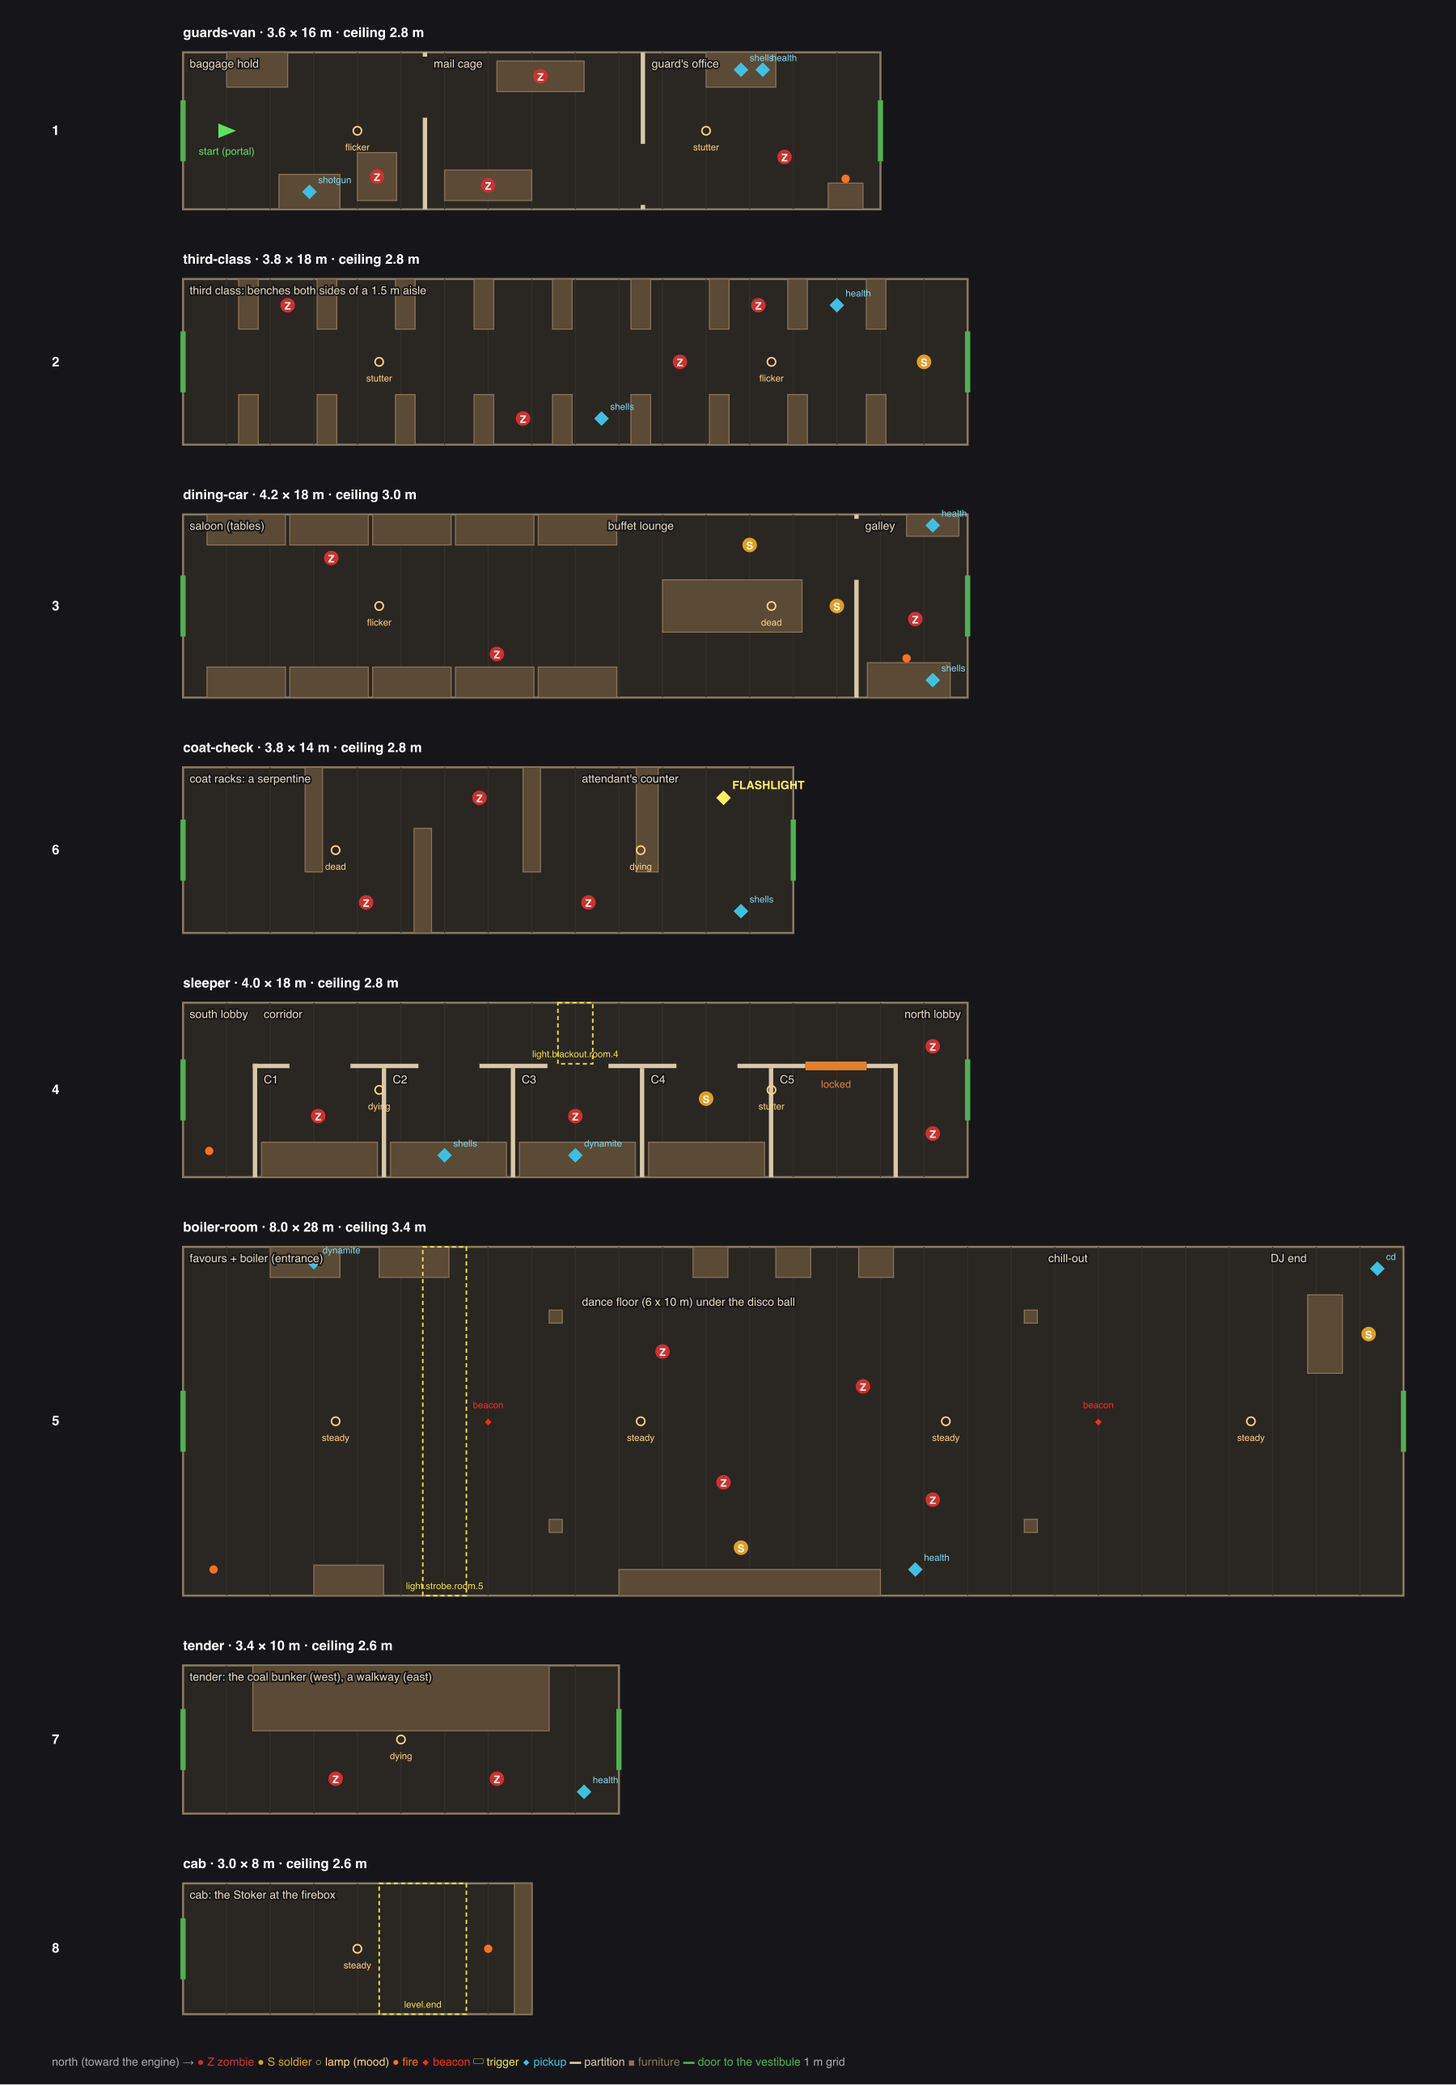
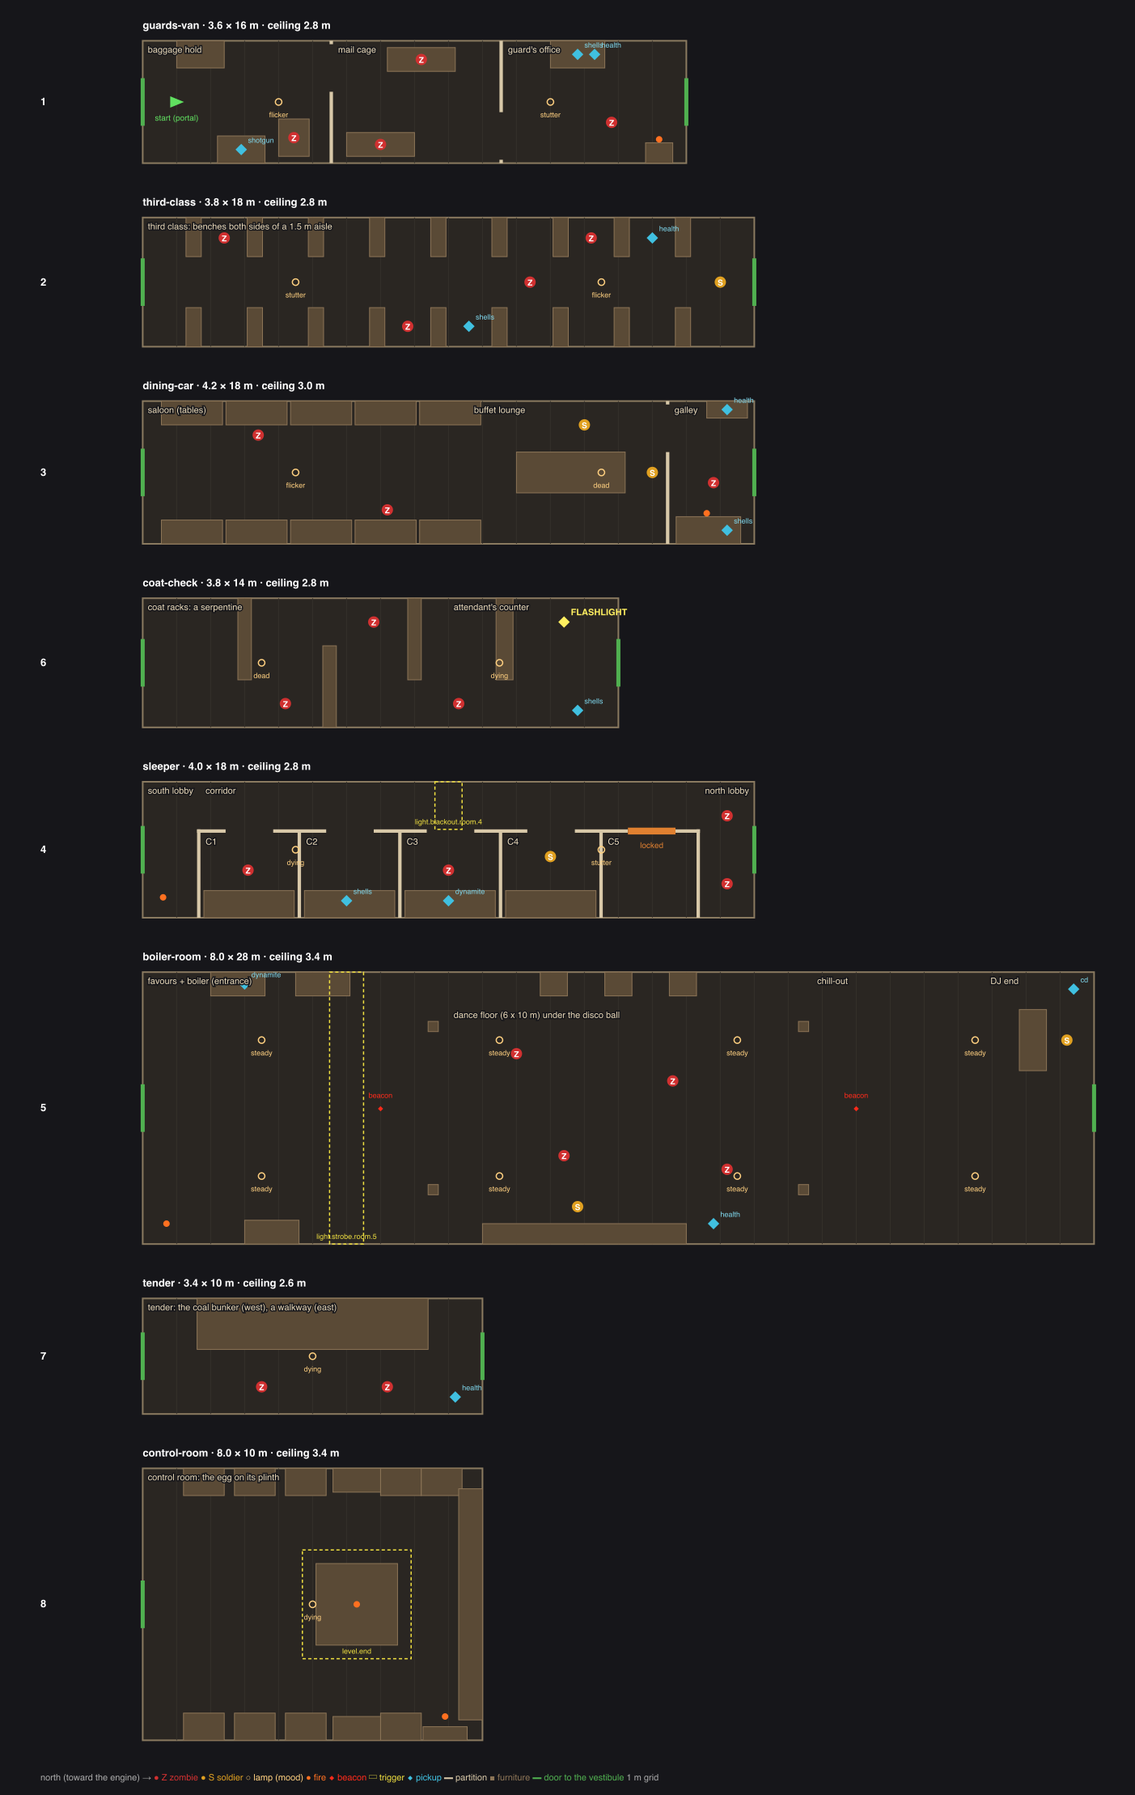
docs(night-train): control room built (plan 1) — notes, layout, task board
Also fixes night_train_layout.py --svg (lamps() yields 3-tuples since the Boiler Room shadow flag).

diff --git a/scripts/levels/night_train_layout.py b/scripts/levels/night_train_layout.py
@@ -264,7 +264,7 @@ def to_svg() -> str:
         for tid, event, x0, x1, u0, u1 in c["triggers"]:
             o.append(box(x0, x1, u0, u1, "none", "#f0e040", 1.5, 'stroke-dasharray="4 3"')
                      + text((u0 + u1) / 2, x1 - 0.15, event, "#f0e040", 9, "middle"))
-        for (lx, _, lu), mood in lamps(c):
+        for (lx, _, lu), mood, *_ in lamps(c):
             o.append(f'<circle cx="{X(lu):.1f}" cy="{Y(lx):.1f}" r="4" fill="none" stroke="#ffd080" stroke-width="1.5"/>'
                      + text(lu, lx + 0.45, mood, "#ffd080", 9, "middle"))
         for _, fx, fu, _, _ in c["fires"]:

diff --git a/docs/dev-notes/2026-09-30-egg-ending/plan1-notes.md b/docs/dev-notes/2026-09-30-egg-ending/plan1-notes.md
@@ -1,0 +1,110 @@
+# Ending plan 1 (the control room): notes
+
+Plan: [2026-09-30-night-train-control-room.md](../../superpowers/plans/2026-09-30-night-train-control-room.md) ·
+spec: [egg ending design](../../superpowers/specs/2026-09-30-night-train-egg-ending-design.md).
+
+## What was built
+
+| Commit | What |
+| --- | --- |
+| `262e3c1e` | Kit: control-room pieces (CRT consoles in 3 colours, server rack, CRT wall, firebox door, egg plinth + placeholder egg, cable tray, blank end wall) |
+| `c23425b6` | Kit fix: console keyboard sits on the desk; 5 mm screen offsets |
+| `7f500abf` | Level: the 3 x 8 m cab becomes an 8 x 10 m `control-room` (z -130.4...-140.4) with the placeholder egg at u 6.3; the `level.end` box is around the egg |
+| `18456322` | Train and loop gates walk to and complete at the control-room egg |
+| this commit | Notes, layout doc, regenerated layout drawing, task board; `night_train_layout.py --svg` fixed (it still unpacked 2-tuples from `lamps()` after the Boiler Room's shadow flag was added) |
+
+## Gates
+
+- Train gate (`.lab-tmp/train-gate-after.txt`): PASS.
+- `sdf-game-light-gate`: PASS (wall 234 s). `sdf-disco-check`: PASS (wall 12 s).
+
+```
+pose     draw calls (no art -> art)   frame ms (no art -> art, median of 5 A/B rounds)
+office     164 -> 346                   18.90 -> 23.40  (paired +4.80)
+third      153 -> 319                   19.60 -> 23.50  (paired +3.90)
+dining     140 -> 288                   17.60 -> 22.40  (paired +4.20)
+coats      123 -> 248                   18.60 -> 23.10  (paired +4.00)
+sleeper    114 -> 213                   18.00 -> 19.40  (paired +1.30)
+boiler     103 -> 181                   16.60 -> 20.50  (paired +2.90)
+control     56 -> 79                    16.70 -> 18.30  (paired +1.40)
+ok   cost: inside budget (+200 draws, +12 ms)
+```
+
+The new `control` pose (0, -131.4, facing the egg) costs +23 draws, +1.4 ms paired.
+
+Old poses, before (`.lab-tmp/train-gate-before.txt`) vs after; "art" is the art-on minus art-off draws:
+
+| pose | total before -> after | art draws before -> after |
+| --- | --- | --- |
+| office | 320 -> 346 | 164 -> 182 |
+| third | 295 -> 319 | 148 -> 166 |
+| dining | 264 -> 288 | 130 -> 148 |
+| coats | 227 -> 248 | 107 -> 125 |
+| sleeper | 193 -> 213 | 81 -> 99 |
+| boiler | 157 -> 181 | 60 -> 78 |
+
+Rooms 1-7 are byte-identical in the level JSON, yet every pose pays a constant **+18 art draws**
+(the no-art column also moves by +3..+8, other objects/lights). Boot line: 177 art meshes / 283
+source instanced meshes, was 160 / 250. Paired ms deltas are within the gate's noise.
+
+## Finding: where the extra draws come from (instancing is not the cause)
+
+Hypothesis "new repeated kit pieces are exported as GPU-instanced meshes that are always drawn":
+**refuted in its mechanism, confirmed in its effect.**
+
+- `scripts/levels/export_level.py` makes every repeated kit piece an instanced glTF node (one per
+  room, piece, part). But at load `batchArt()` in `src/lab/sdf-zombie/webgpu/game-art-leaves.ts`
+  bakes every static mesh and every instance into world space and merges them per
+  `artBatchKey` = (room, material, shadow flag, vertex layout). So instanced vs joined makes no
+  difference at runtime: the draw count is the number of distinct (room, material, shadow)
+  batches. The "283 instanced" in the boot line is only the count of source InstancedMeshes
+  before that merge.
+- The old cab was 9 joined meshes (0 instanced, 8 materials). Room 8 is now 52 mesh nodes, 33
+  instanced (all 33 of the +33 are room 8): 20 from the new pieces (crt-console x12 parts over 3
+  colours, server-rack x6, cable-tray x2) and 13 from the reused `bay-*-80-34` shell pieces. Room 8
+  goes from 8 to 18 distinct materials (the three CRT screen colours, beige, LED, egg, rubber, rust,
+  plinth...), so about 10 more batches by the GLB count (runtime shows +17 art meshes; the gap
+  was not chased).
+- Nothing culls art by room. The only visibility switches on art are the debug `setArtVisible`
+  and three's per-mesh frustum cull. A room-sized batch has a bounding sphere about 13 m across and
+  the carriage is a straight tunnel, so when the camera looks down the train every room's batches
+  are inside the frustum, doors and walls included (no occlusion culling for art). That is why the
+  office pose pays for room 8 (and every room pays for every other room ahead of it).
+
+Cheapest fixes, not implemented:
+
+1. **Fewer materials in room 8** (smallest change, no engine work): give the three CRT colours one
+   material (vertex colour, or one small atlas texture) and fold beige/LED/rubber/rust into existing
+   kit materials. Expected: about -6..-8 batches, roughly -6..-10 draws at every pose.
+2. **Per-room art visibility** (biggest win): each frame (or on room change) hide art batches whose
+   room is not the player's room or its neighbours (`userData.room` is already on every batch and
+   `nearRoomMask` exists for lights). Expected: about -18 draws at the office/third/dining/coats
+   poses from room 8 alone, and far more overall since rooms 1-7 are about 120 batches.
+   Needs a check that nothing is seen through the door at range (vestibules are 1.2 m, the
+   neighbour rule covers it).
+
+Headroom: the worst pose (office) is +182 art draws against the +200 budget, so **about 18 draws
+of headroom**. Any further room-8 or other art will break the gate unless one of the fixes lands.
+
+## In-game look vs the blockout
+
+Image: `control-room-ingame.png` (from the door, facing north; the tuning panels are the dev UI).
+Blockout: `control-room-door.png`, `egg-close.png`.
+
+- The egg is centred and reads as a large milky ellipsoid on the plinth, with the orange plinth
+  ring and the black tube stubs around its base, like the blockout (the blockout's veins, inner
+  egg and glass are plan 2).
+- The CRT wall fills the north wall behind it, lit in amber, cyan and green tiles; racks with
+  blinking LEDs line both sides; the firebox door glows orange on the east wall's north end
+  and no console overlaps it.
+- Room is dim and warm, with the egg pool and firebox glow; nothing pure black or blown out.
+- Cable trays: dark beams run under the ceiling at each side; they read as beams under the arch,
+  not buried in it. No defect found, nothing changed.
+- Only the door view exists. No side or wide view was captured.
+
+## Open items
+
+- The egg is a placeholder (flat milky colour); plan 2 is the WGSL egg pass.
+- Lighting is a first pass (egg light and firebox light at power 4.0, one dying tube).
+- The consoles' CRT screens are static emissive colours, not animated.
+- Draw-call headroom at the office pose is about 18 of the +200 budget (see above).

diff --git a/docs/tasks/levels.md b/docs/tasks/levels.md
@@ -22,7 +22,7 @@ Night Train, the Wake, the Void and menu, level format, game design. Part of the
 - [x] 4k **Boiler Room disco ball** ([spec](../../docs/superpowers/specs/2026-09-27-disco-ball-design.md) · [plan](../../docs/superpowers/plans/2026-09-27-disco-ball.md) · [dev note + sheet](../../docs/dev-notes/2026-09-27-disco-ball/notes.md), 2026-09-27, owner choice A): the ball wears hand-written WGSL mirror tiles (seeded glints, dark gaps, tinted by the light on it) and throws 96 soft stars (one additive instanced draw in the late scene) onto room 5's walls, floor and ceiling as it spins. White at the party lamps' level, following the strobe (1.3 flash / dark gaps), then the beacons' red, pulsing as each beam's heading passes the ball (the cones themselves never contain it: deviation in the note). Hidden outside the Boiler Room and its joined rooms. `scripts/sdf-disco-check.sh` (own ports 5367/9367). Cost: stars on−off −0.20..+0.15 ms frame median (noise). Limits: stars ignore bodies and furniture (accepted).
 - [ ] 4l **Boiler Room resize to 8 × 28 m** (owner, 2026-09-27: option B, "bigger on the inside"; layout approved with the recommendations) — [plan](../../docs/superpowers/plans/2026-09-27-boiler-room-resize.md) · [before/after](../../docs/game/levels/01-night-train/boiler-resize/boiler-before-after.png) · [proposal script](../../docs/game/levels/01-night-train/boiler-resize/proposed_rid5.py). Windows down both long walls (14 bays each), dance floor 6 × 10 m under the ball (u 14), bar east, pistons + steam west, DJ deck across the far end facing south (no riser), 2 beacons at u 7 / 21, one centre row of 4 tubes, a third favour table; the kit's ceiling-arch rise scales with width. Everything north shifts +8 m: gates/tests with room-5/tender/cab coordinates need updating (listed in the plan).
 - [x] 4m **Flashlight feel** (owner, 2026-09-27): "feels like a flashlight vs the ambient but not blown out". 83dcd38c (beam shoulder) stops clipping at 1.5–2.5 m; d88c7bb7 judges the torch at the chest, trim 2.8 → 0.43, distFall 0.01, and a hue-preserving luminance tail: torch-only bodies pink at 1.5–6 m, 4.5–8× the torch-off body, 0% blown ([sheet](../../docs/dev-notes/2026-09-27-shared-light-list/flashlight-retune.png)); gate 7b sweeps 1.5–6 m. Open (owner): under a lit tube the torch adds ~5% (lowering LAMP_LIST_TRIM would move the approved tube look); the default level reads darker from 4 m; next lever the body dark floor side-by-sides.
-- [ ] 4n **Ending: control room, egg, montage** (owner, 2026-09-30; scope B) — [spec](../../docs/superpowers/specs/2026-09-30-night-train-egg-ending-design.md) · [blockout renders + .blend](../../docs/dev-notes/2026-09-30-egg-ending/). Replaces the cab and the `level.end` trigger: an 8 × 10 m control room (CRT wall, consoles, firebox door) holding a nested alive egg; walking within 1.6 m fires `egg.touch`, which starts a timed abstract montage (a pure `ending-sequence.ts` timeline: pull, vein, static wall, spot, figure, egg in space, the train as a sperm, white, black + title card). The CD stays a collectible. Not built: the Flat, the CRT pull-back, the CD's role, sound, the Stoker/dawn. Build order in the spec §7 (room → egg pass → sequence system → montage → playtest).
+- [~] 4n **Ending: control room, egg, montage** (owner, 2026-09-30; scope B) — [spec](../../docs/superpowers/specs/2026-09-30-night-train-egg-ending-design.md) · [blockout renders + .blend](../../docs/dev-notes/2026-09-30-egg-ending/). Replaces the cab and the `level.end` trigger: an 8 × 10 m control room (CRT wall, consoles, firebox door) holding a nested alive egg; walking within 1.6 m fires `egg.touch`, which starts a timed abstract montage (a pure `ending-sequence.ts` timeline: pull, vein, static wall, spot, figure, egg in space, the train as a sperm, white, black + title card). The CD stays a collectible. Not built: the Flat, the CRT pull-back, the CD's role, sound, the Stoker/dawn. Build order in the spec §7 (room → egg pass → sequence system → montage → playtest). **Plan 1 done** ([plan](../../docs/superpowers/plans/2026-09-30-night-train-control-room.md), [notes](../../docs/dev-notes/2026-09-30-egg-ending/plan1-notes.md)): the cab is an 8 × 10 m control room with a placeholder egg; the level completes at the egg (level.end box). Next: plan 2 (the egg pass).
 - [ ] 4e Gameplay: encounters (wake-up triggers), the Stoker; dawn later.
 - [ ] 4d **Owner ideas (2026-09-25), for layout draft 2:** keys + locked doors to gate progress (retro FPS staple; **coloured keys as placeholders** — red/blue/yellow, re-skinnable later; format has gates, needs key pickups, locked-door feedback, a key HUD); the train a bit longer (**done in draft 2**, 4h).
 

diff --git a/docs/game/levels/01-night-train/layout.md b/docs/game/levels/01-night-train/layout.md
@@ -13,7 +13,7 @@ Draft 2 with one change, approved by the owner on 2026-09-27
 - Favours and the boiler at the entrance, a 6 × 10 m dance floor under the disco ball (u 14),
   a chill-out, then the DJ end: floor, no riser, the deck across the carriage facing south.
 - A third favour table (east), three pistons on the west bay ribs, five steam vents.
-- The tender and cab move 8 m north; the train is about 138 m.
+- The tender and the last carriage (the cab, now the control room) move 8 m north; the train is about 138 m.
 
 ## Draft 2 (2026-09-26, approved by the owner; built)
 
@@ -26,7 +26,7 @@ flashlight came too early. Eight carriages, about 130 m: **guard's van** (start;
 **the flashlight behind the attendant's counter**; taking it kills the last lamp and wakes the
 room) → **sleeper** (corridor blackout) → **the Boiler Room** (was the party carriage: disco
 ball, DJ deck, strobes, steam vents, pneumatic hammers; 4 dancers instead of 8) → **tender**
-(new: coal bunker and walkway) → **cab** (the level ends at the firebox until the Stoker exists).
+(new: coal bunker and walkway) → **control room** (the level ends at the egg; the Stoker and the dawn are later).
 Cultists are soldiers until the cultist is finished (6 soldiers, 24 zombies). Lamps at power 1.1
 (Doom 3 dark). The tables in `scripts/levels/night_train_layout.py` are the record; the rest of
 this document describes draft 1.
@@ -49,7 +49,7 @@ this document describes draft 1.
 RE0's train works because it is a **chain of distinct rooms**, not a tube: a side corridor,
 compartments, a day room, a lounge. We cheat the same way. No one sees the train from outside,
 so its inside can be wider and more divided than a real carriage. **Width is a pacing tool:**
-tight rooms, then an open saloon, then a corridor, then the biggest open room, then the cab.
+tight rooms, then an open saloon, then a corridor, then the biggest open room, then the control room.
 
 The first slice grows to five carriages: the **sleeper** (carriage 4) joins it.
 
@@ -66,10 +66,10 @@ would need 0.6 m walls between them, which a carriage can't spare. Doorways are 
 | 3 | Dining car | 4.2 × 18 m | 3.0 m | **saloon** (5 tables each side) → **buffet lounge** (a central island) → door west → **galley** |
 | 4 | Sleeper | 4.0 × 18 m | 2.8 m | **south lobby** → a **side corridor** (west, 1.4 m) with **five compartments** C1–C5 (east, 2.5 m deep) → **north lobby** |
 | 5 | Party carriage | 4.2 × 20 m | 3.4 m | one open room: favour tables (west), **dance floor**, two pillars, the **bar** (east), the jukebox (NW corner) |
-| 8 | Cab | 3.0 × 8 m | 2.6 m | the Stoker at the firebox; the boiler backhead fills the north end. **Planned (2026-09-30): becomes an 8 × 10 m control room with the egg** — see [the ending spec](../../../superpowers/specs/2026-09-30-night-train-egg-ending-design.md) |
+| 8 | Control room | 8.0 × 10 m | 3.4 m | CRT wall (north), consoles and racks down both sides, the firebox door (east, north end), the egg on its plinth at u 6.3 — [ending spec](../../../superpowers/specs/2026-09-30-night-train-egg-ending-design.md) |
 
 Game z: the van's south end is z = 0; carriages run toward −z (van 0…−16, dining −17.2…−35.2,
-sleeper −36.4…−54.4, party −55.6…−75.6, cab −76.8…−84.8).
+sleeper −36.4…−54.4, party −55.6…−75.6, cab −76.8…−84.8; current layout: control room −130.4…−140.4 after the Boiler Room resize).
 
 ## 2. Encounters (zombies and cultists)
 
@@ -85,7 +85,7 @@ sleeper −36.4…−54.4, party −55.6…−75.6, cab −76.8…−84.8).
 | Sleeper C4 | **1 cultist** | the player in the corridor | a shooter down a long corridor; compartments as cover |
 | Sleeper north lobby | 2 zombies | the cultist's shots | mop-up |
 | Party carriage | 8 dancers (zombies) + **2 cultists at the bar** | the first shot | everything together; circling the pillars |
-| Cab | the Stoker (not an enemy) | — | the set piece (later) |
+| Control room | no enemies; the egg | touching the egg ends the level | the ending (the Stoker is later) |
 
 **Total:** 19 zombies (van 4, dining 3, sleeper 4, party 8), 5 cultists (the format's `cultist` spawn kind).
 
@@ -97,7 +97,7 @@ sleeper −36.4…−54.4, party −55.6…−75.6, cab −76.8…−84.8).
 - **Sleeper:** the full corridor and its row of compartment doors; the C4 cultist steps out
   into it.
 - **Party carriage:** the dance floor, the bar lit on the right, the jukebox glowing at the far end.
-- **Cab:** the Stoker's back and the firebox glow.
+- **Control room:** the CRT wall lit at the far end, the egg milky on its plinth, the firebox glow on the east wall (the Stoker stays later).
 
 ## 4. Loops
 

diff --git a/TASKS.md b/TASKS.md
@@ -36,7 +36,7 @@
   height unchanged. [Notes + turntable](docs/dev-notes/2026-09-29-zombie-feet/notes.md). **Open:** feet a little
   small (~0.19 m; foot `len`), the walk with longer legs not yet judged in play; kit characters (soldier 0.10,
   juggernaut 0.11) assumed hidden by boots — verify.
-- [ ] **Ending: the control room, the egg, the montage** (owner, 2026-09-30, scope B) — [spec](docs/superpowers/specs/2026-09-30-night-train-egg-ending-design.md) · [blockout](docs/dev-notes/2026-09-30-egg-ending/). The cab becomes an 8 × 10 m control room with a nested, alive egg (red veiny outer, milky spotted inner, soft silhouette); contact starts a ~30 s abstract montage (jump cuts, the train seen as a sperm), then black and a title card. The Flat and the pull-back stay later. **Next:** owner review of the spec, then plan 1 (the room).
+- [ ] **Ending: the control room, the egg, the montage** (owner, 2026-09-30, scope B) — [spec](docs/superpowers/specs/2026-09-30-night-train-egg-ending-design.md) · [blockout](docs/dev-notes/2026-09-30-egg-ending/). The cab becomes an 8 × 10 m control room with a nested, alive egg (red veiny outer, milky spotted inner, soft silhouette); contact starts a ~30 s abstract montage (jump cuts, the train seen as a sperm), then black and a title card. The Flat and the pull-back stay later. **Plan 1 (the room) built; next: plan 2, the egg pass (WGSL).**
 - [ ] Check the beacon sweeps read on bodies under the owner's default; explain the light gate's `?lightlist=0` gib
   reading (0.296 vs 0.163 earlier, passes).
 - [x] **Optimisation pass** (owner), rounds 1–2: the frame was CPU-bound on draw calls. Static
